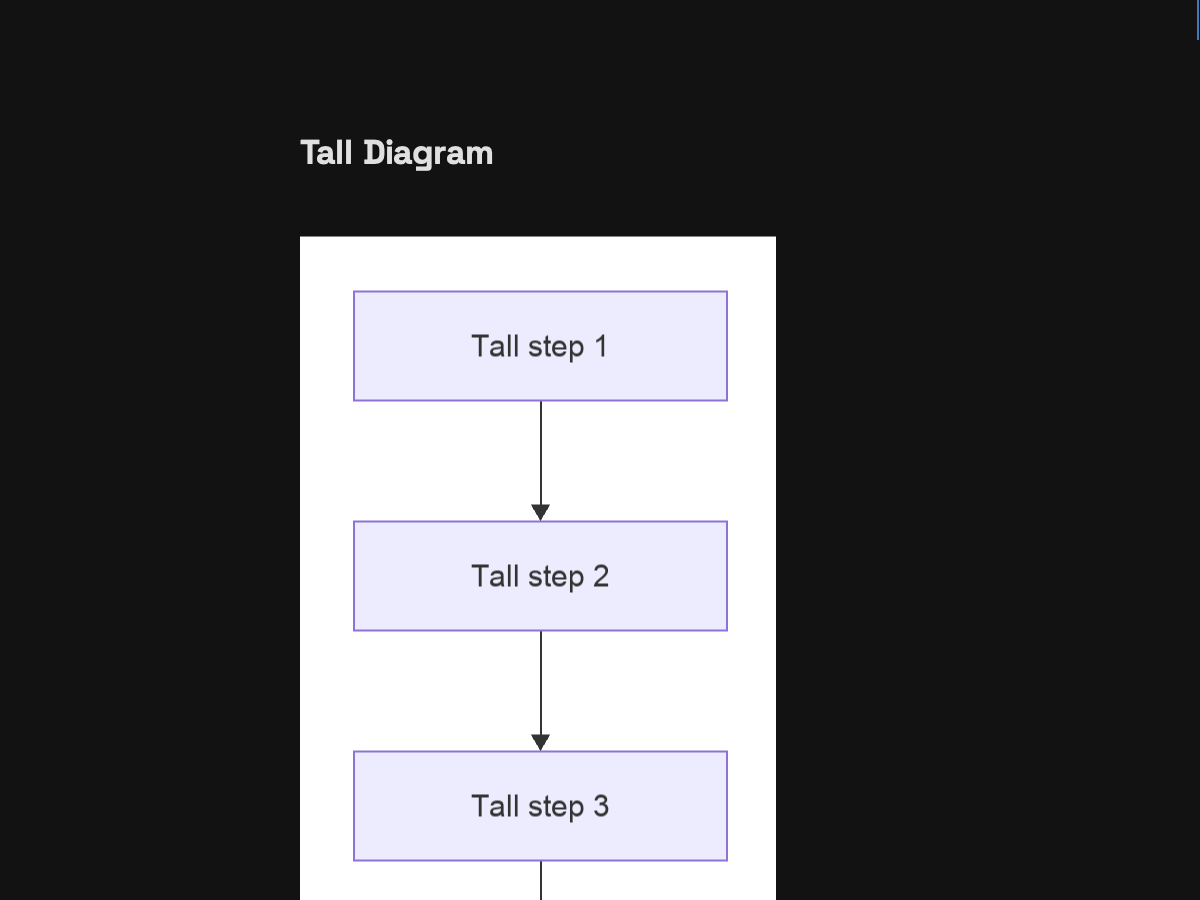
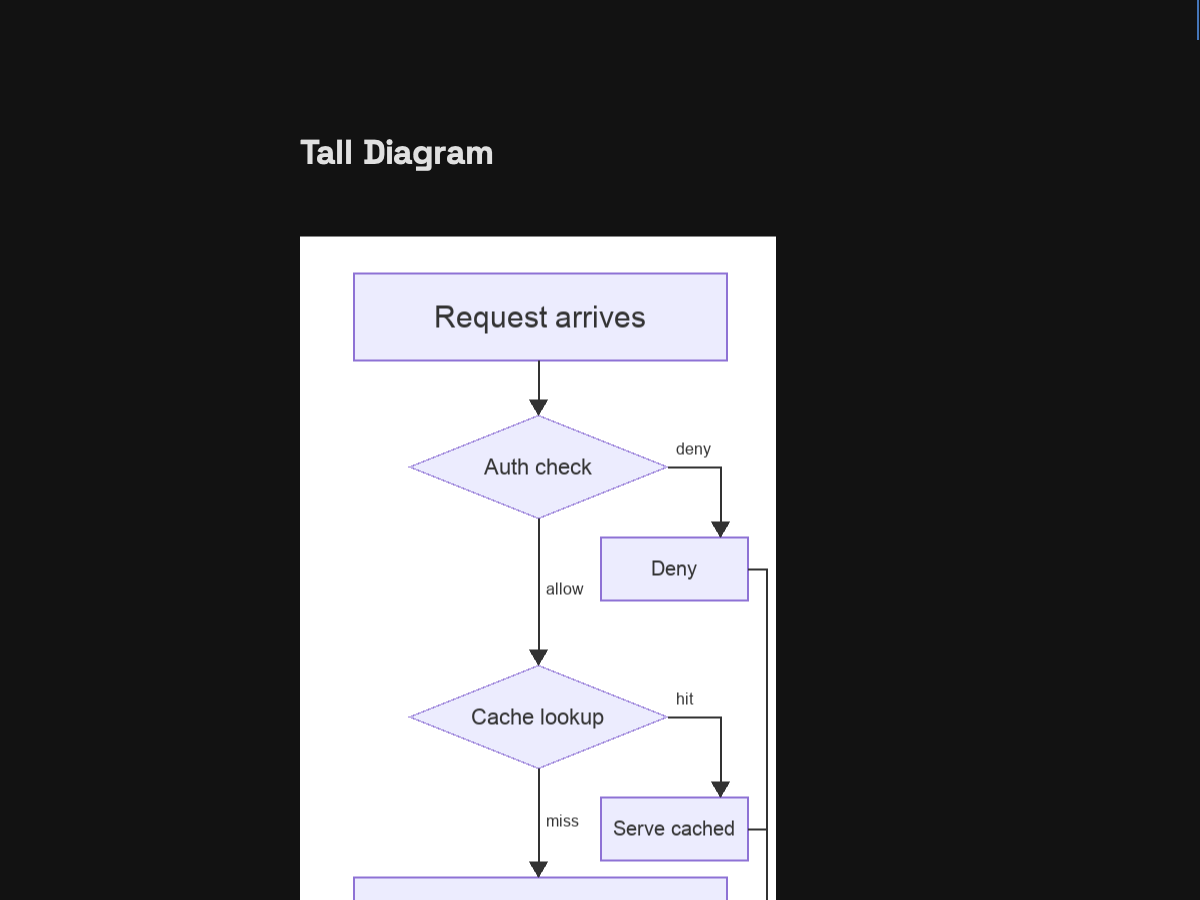
issue #323 PR-2: complex tall graph + below-fold frames (PR #340 review)
Tall fixture becomes a genuinely complex 26-node flowchart
(branches/joins, decision diamonds, bypass rail); tall seed redrawn
476x3140 mirroring it node-for-node (same lavender/purple style,
Arial). Suite captures below-fold frames of the same doc via the
existing --scroll mechanism (900/1800/2700, no new test case, no
src/ changes). Seeds are synthetic reference geometry (no mermaid
renderer in env), per suite practice.

diff --git a/scripts/gen-mermaid-seed.py b/scripts/gen-mermaid-seed.py
@@ -8,9 +8,13 @@ purple-bordered boxes, vertical arrow, smooth sans-serif labels.
 
 mermaid-seed-tall.png is the huge-rendered-image companion for the
 test_cases/plugin_mermaid_tall.md fixture: same style and column width,
-but ~2000px tall (eight stacked boxes), proving oversize-image geometry
+but a genuinely complex 26-node flowchart (~3140px tall: auth/cache
+branches, parallel tokenize/index fan-out with join, image/plugin
+decisions, cache seed/fallback split, overlay fan-in, bypass rail),
+mirroring the fixture node-for-node and proving oversize-image geometry
 (clamp/fit, scrollbar/height math, no blowup). No mermaid renderer binary
-exists in this env, so both draw reference geometry directly.
+exists in this env, so both draw reference geometry directly
+(synthetic-but-plausible, per suite practice).
 
 Requires Pillow (fixture generation only, never ships): pip install pillow.
 Usage:  python3 scripts/gen-mermaid-seed.py
@@ -87,35 +91,151 @@ def main():
 
 
 # Huge-rendered-image companion (issue #323, PR #340 owner request): same
-# column width and style as the standard seed, but TALL_H px tall — eight
-# stacked boxes with arrows, fully deterministic (fixed geometry, labels,
-# font, colors; Pillow writes no timestamps).
-TALL_W, TALL_H = 476, 2000
-TALL_BOXES = 8
-TALL_BOX_H = 110
-TALL_TOP = 54
-TALL_STEP = 230
-TALL_X0, TALL_X1 = 53, 427
+# column width and style as the standard seed, but a genuinely complex
+# 26-node flowchart mirroring test_cases/plugin_mermaid_tall.md
+# node-for-node: full-width spine boxes, two-column branch pairs, decision
+# diamonds, and a right-edge bypass rail collecting the Deny/Serve/Skip
+# side branches into the terminal node. All coordinates are explicit
+# constants — fully deterministic (fixed geometry, labels, font, colors;
+# Pillow writes no timestamps).
+TALL_W, TALL_H = 476, 3140
+
+_T_FULL_X0, _T_FULL_X1, _T_FULL_H = 53, 427, 88
+_T_DIA_CX, _T_DIA_HW, _T_DIA_HH = 238, 130, 52
+_T_RAIL_X = 466
+_T_ARROW_H = 15
+
+# Full-width spine boxes: (label, top).
+_T_FULL = [
+    ("Request arrives", 36),
+    ("Plan layout", 640),
+    ("Join text runs", 1150),
+    ("Apply styles", 1300),
+    ("Paint viewport", 1620),
+    ("Hash fence source", 1930),
+    ("Composite layers", 2240),
+    ("Join overlays", 2550),
+    ("Track scroll", 2700),
+    ("Idle await input", 3000),
+]
+
+# Branch boxes: (label, x0, x1, top, h).
+_T_BRANCH = [
+    ("Deny", 300, 448, 300, 64),
+    ("Serve cached", 300, 448, 560, 64),
+    ("Tokenize blocks", 28, 230, 790, 84),
+    ("Index lines", 246, 448, 790, 84),
+    ("Split bidi runs", 28, 230, 936, 84),
+    ("Find code spans", 246, 448, 936, 84),
+    ("Decode images", 316, 460, 1530, 56),
+    ("Skip plugins", 300, 448, 1860, 64),
+    ("Seed cache hit", 28, 230, 2080, 84),
+    ("Render fallback", 246, 448, 2080, 84),
+    ("Selection layer", 28, 230, 2390, 84),
+    ("Find markers", 246, 448, 2390, 84),
+]
+
+# Decision diamonds: (label, center_y).
+_T_DIA = [
+    ("Auth check", 230),
+    ("Cache lookup", 480),
+    ("Images?", 1500),
+    ("Mermaid?", 1820),
+]
+
+# Vertical arrows: (x, y0, y_tip).
+_T_VLINES = [
+    (238, 124, 178),
+    (238, 282, 428),
+    (238, 532, 640),
+    (129, 728, 790), (347, 728, 790),
+    (129, 874, 936), (347, 874, 936),
+    (129, 1020, 1150), (347, 1020, 1150),
+    (238, 1238, 1300),
+    (238, 1388, 1448),
+    (238, 1552, 1620),
+    (388, 1586, 1620),
+    (238, 1708, 1768),
+    (238, 1872, 1930),
+    (129, 2018, 2080), (347, 2018, 2080),
+    (129, 2164, 2240), (347, 2164, 2240),
+    (129, 2328, 2390), (347, 2328, 2390),
+    (129, 2474, 2550), (347, 2474, 2550),
+    (238, 2638, 2700),
+    (238, 2788, 3000),
+]
+
+# Elbow edges (horizontal out of a diamond, then down into a box top):
+# (x0, y0, x1, y_tip).
+_T_ELBOWS = [
+    (368, 230, 420, 300),  # deny -> Deny
+    (368, 480, 420, 560),  # hit -> Serve cached
+    (368, 1500, 400, 1530),  # yes -> Decode images
+    (368, 1820, 420, 1860),  # no -> Skip plugins
+]
+
+# Bypass rail: side branches meet it at these y values (x=448 -> rail),
+# run down the right edge, and rejoin the terminal box top.
+_T_RAIL_JOINS = (332, 592, 1892)
+
+# Edge labels: (text, x, y), drawn left-anchored past the edge.
+_T_EDGE_LABELS = [
+    ("allow", 246, 352),
+    ("deny", 376, 212),
+    ("hit", 376, 462),
+    ("miss", 246, 584),
+    ("yes", 372, 1482),
+    ("no", 246, 1584),
+    ("yes", 246, 1899),
+    ("no", 376, 1802),
+]
+
+
+def _t_arrow(d, x, y_tip):
+    base = y_tip - _T_ARROW_H
+    d.polygon([(x, y_tip),
+               (x - ARROW_HALF, base),
+               (x + ARROW_HALF, base)], fill=INK)
 
 
 def draw_tall(font):
+    font_branch, _ = load_font(20)
+    font_dia, _ = load_font(22)
+    font_edge, _ = load_font(16)
     im = Image.new("RGB", (TALL_W, TALL_H), BG)
     d = ImageDraw.Draw(im)
-    tops = [TALL_TOP + s * TALL_STEP for s in range(TALL_BOXES)]
-    for top in tops:
-        d.rectangle((TALL_X0, top, TALL_X1, top + TALL_BOX_H),
+    for label, top in _T_FULL:
+        d.rectangle((_T_FULL_X0, top, _T_FULL_X1, top + _T_FULL_H),
                     fill=FILL, outline=EDGE, width=EDGE_W)
-    for top, nxt in zip(tops, tops[1:]):
-        base = nxt - 16
-        d.line([(ARROW_X, top + TALL_BOX_H + 1), (ARROW_X, base)],
+        d.text(((_T_FULL_X0 + _T_FULL_X1) // 2, top + _T_FULL_H // 2),
+               label, font=font, fill=INK, anchor="mm")
+    for label, x0, x1, top, h in _T_BRANCH:
+        d.rectangle((x0, top, x1, top + h),
+                    fill=FILL, outline=EDGE, width=EDGE_W)
+        d.text(((x0 + x1) // 2, top + h // 2),
+               label, font=font_branch, fill=INK, anchor="mm")
+    for label, cy in _T_DIA:
+        d.polygon([(_T_DIA_CX, cy - _T_DIA_HH),
+                   (_T_DIA_CX + _T_DIA_HW, cy),
+                   (_T_DIA_CX, cy + _T_DIA_HH),
+                   (_T_DIA_CX - _T_DIA_HW, cy)],
+                  fill=FILL, outline=EDGE, width=EDGE_W)
+        d.text((_T_DIA_CX, cy), label, font=font_dia, fill=INK, anchor="mm")
+    for x, y0, y_tip in _T_VLINES:
+        d.line([(x, y0), (x, y_tip - _T_ARROW_H)], fill=INK, width=2)
+        _t_arrow(d, x, y_tip)
+    for x0, y0, x1, y_tip in _T_ELBOWS:
+        d.line([(x0, y0), (x1, y0), (x1, y_tip - _T_ARROW_H)],
                fill=INK, width=2)
-        d.polygon([(ARROW_X, nxt - 1),
-                   (ARROW_X - ARROW_HALF, base),
-                   (ARROW_X + ARROW_HALF, base)], fill=INK)
-    for n, top in enumerate(tops, 1):
-        cx = (TALL_X0 + TALL_X1) // 2
-        d.text((cx, top + TALL_BOX_H // 2), "Tall step %d" % n,
-               font=font, fill=INK, anchor="mm")
+        _t_arrow(d, x1, y_tip)
+    for y in _T_RAIL_JOINS:
+        d.line([(448, y), (_T_RAIL_X, y)], fill=INK, width=2)
+    d.line([(_T_RAIL_X, _T_RAIL_JOINS[0]),
+            (_T_RAIL_X, 2960), (350, 2960), (350, 3000 - _T_ARROW_H)],
+           fill=INK, width=2)
+    _t_arrow(d, 350, 3000)
+    for text, x, y in _T_EDGE_LABELS:
+        d.text((x, y), text, font=font_edge, fill=INK, anchor="lm")
     return im
 
 

diff --git a/test_cases/plugin_mermaid_tall.md b/test_cases/plugin_mermaid_tall.md
@@ -2,5 +2,36 @@
 
 ```mermaid
 flowchart TD
-    A[Tall diagram top] --> Z[Tall diagram bottom]
+    IN[Request arrives] --> AUTH{Auth check}
+    AUTH -- allow --> CACHE{Cache lookup}
+    AUTH -- deny --> DENY[Deny]
+    CACHE -- hit --> SERVE[Serve cached]
+    CACHE -- miss --> PLAN[Plan layout]
+    PLAN --> TOK[Tokenize blocks]
+    PLAN --> IDX[Index lines]
+    TOK --> BIDI[Split bidi runs]
+    IDX --> CODE[Find code spans]
+    BIDI --> JOIN1[Join text runs]
+    CODE --> JOIN1
+    JOIN1 --> STYLE[Apply styles]
+    STYLE --> IMG{Images?}
+    IMG -- yes --> DECODE[Decode images]
+    IMG -- no --> PAINT[Paint viewport]
+    DECODE --> PAINT
+    PAINT --> PLUG{Mermaid?}
+    PLUG -- yes --> HASH[Hash fence source]
+    PLUG -- no --> SKIP[Skip plugins]
+    HASH --> SEED[Seed cache hit]
+    HASH --> MISS[Render fallback]
+    SEED --> COMP[Composite layers]
+    MISS --> COMP
+    COMP --> SEL[Selection layer]
+    COMP --> FIND[Find markers]
+    SEL --> JOIN2[Join overlays]
+    FIND --> JOIN2
+    JOIN2 --> SCROLL[Track scroll]
+    SCROLL --> IDLE[Idle await input]
+    DENY --> IDLE
+    SERVE --> IDLE
+    SKIP --> IDLE
 ```
